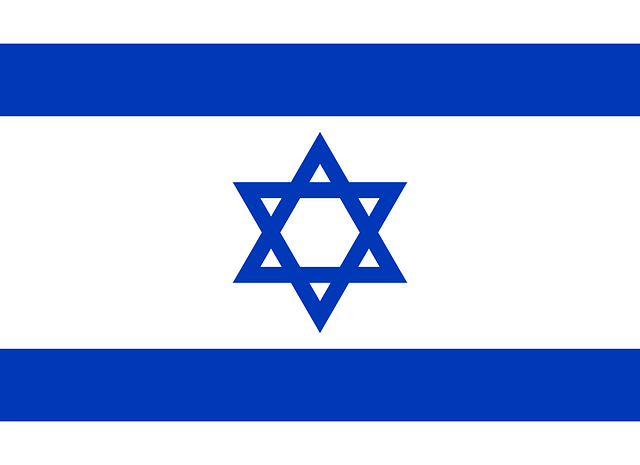
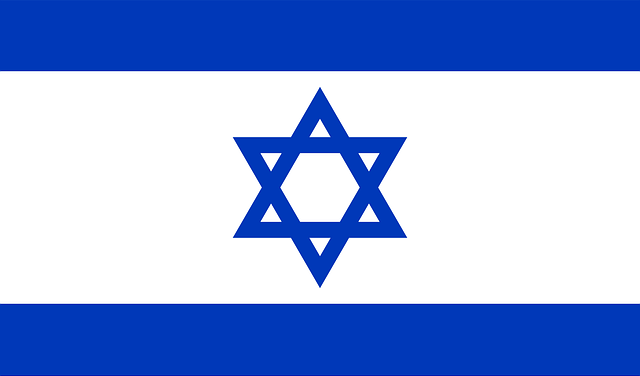
גודל דגל קבוע, רקע זהה לקטעי מילים ומשפטים

diff --git a/scripts/build-v2-multi-languages.py b/scripts/build-v2-multi-languages.py
@@ -42,8 +42,8 @@ os.makedirs(BACKGROUNDS_INTROS_OUTROS_DIR, exist_ok=True)
 BACKGROUND_IMAGES = {
     'subtopic': os.path.join('levels', 'subtopic_background.png'),
     'word': os.path.join('levels', 'word_background.png'),
-    'sentence': os.path.join('levels', 'sentence_background.png'),
-    'translation': os.path.join('levels', 'sentence_background.png'),
+    'sentence': os.path.join('levels', 'word_background.png'),
+    'translation': os.path.join('levels', 'word_background.png'),
     'level': None,  # יוגדר דינמית לפי שפה
     'outro': None,  # יוגדר דינמית לפי שפה
     'outro_title': None,  # יוגדר דינמית לפי שפה
@@ -296,18 +296,15 @@ class ImageCreator:
                 source_flag = Image.open(source_flag_path).convert("RGBA")
                 target_flag = Image.open(target_flag_path).convert("RGBA")
 
-                
+                # קביעת גובה הדגל
                 flag_height = 100
-                source_flag_aspect_ratio = source_flag.width / source_flag.height
-                source_flag_width = int(flag_height * source_flag_aspect_ratio)
-                
-                target_flag_aspect_ratio = target_flag.width / target_flag.height
-                target_flag_width = int(flag_height * target_flag_aspect_ratio)
+                # קביעת יחס קבוע של 2:3 (גובה:רוחב)
+                flag_width = int(flag_height * 1.5)  # 1.5 = 3/2
 
+                # שינוי גודל הדגלים לפי היחס הקבוע
+                source_flag = source_flag.resize((flag_width, flag_height), RESAMPLING)
+                target_flag = target_flag.resize((flag_width, flag_height), RESAMPLING)
 
-                source_flag = source_flag.resize((source_flag_width, flag_height), RESAMPLING)
-                target_flag = target_flag.resize((target_flag_width, flag_height), RESAMPLING)
-                
                 flag_spacing = 20
                 total_flags_width = source_flag.width + target_flag.width + flag_spacing
                 flags_start_x = (img.width - total_flags_width) / 2
